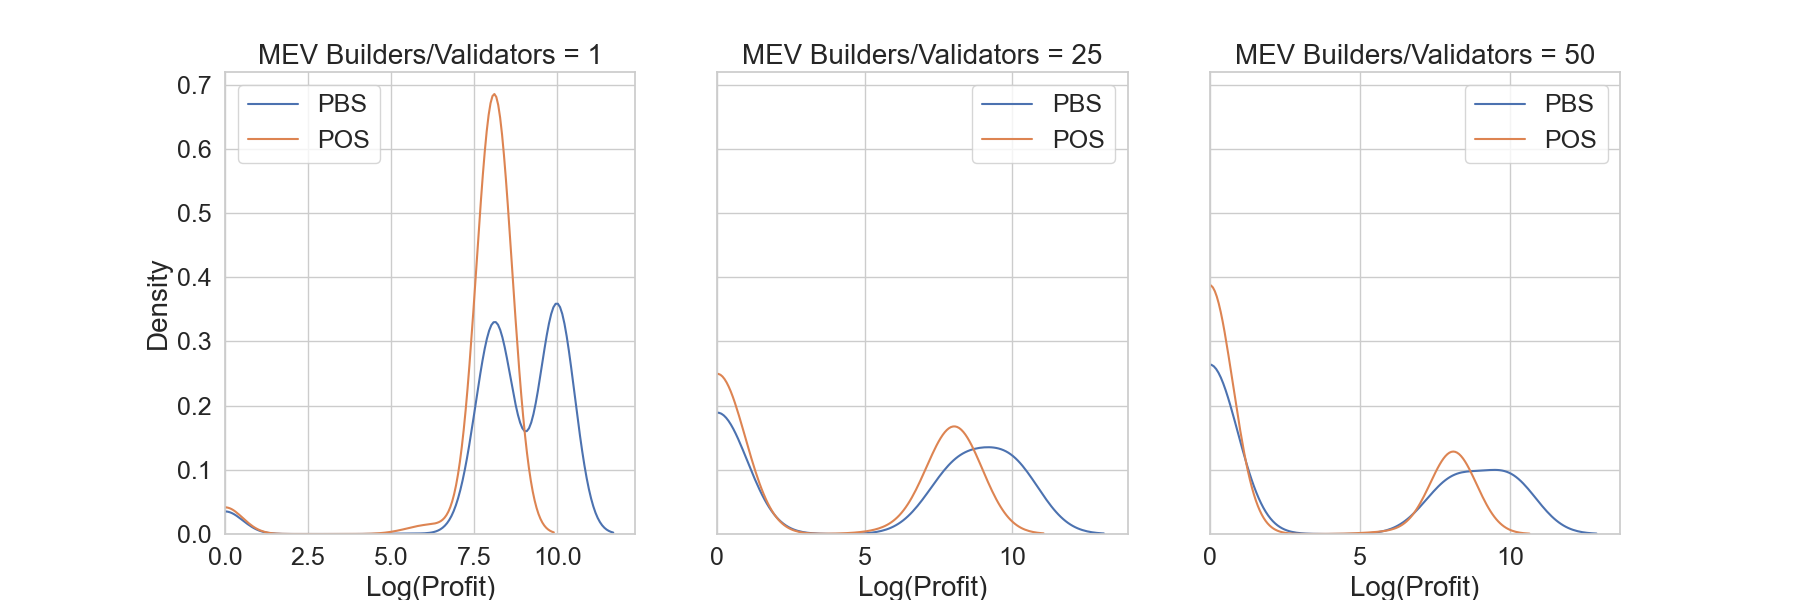
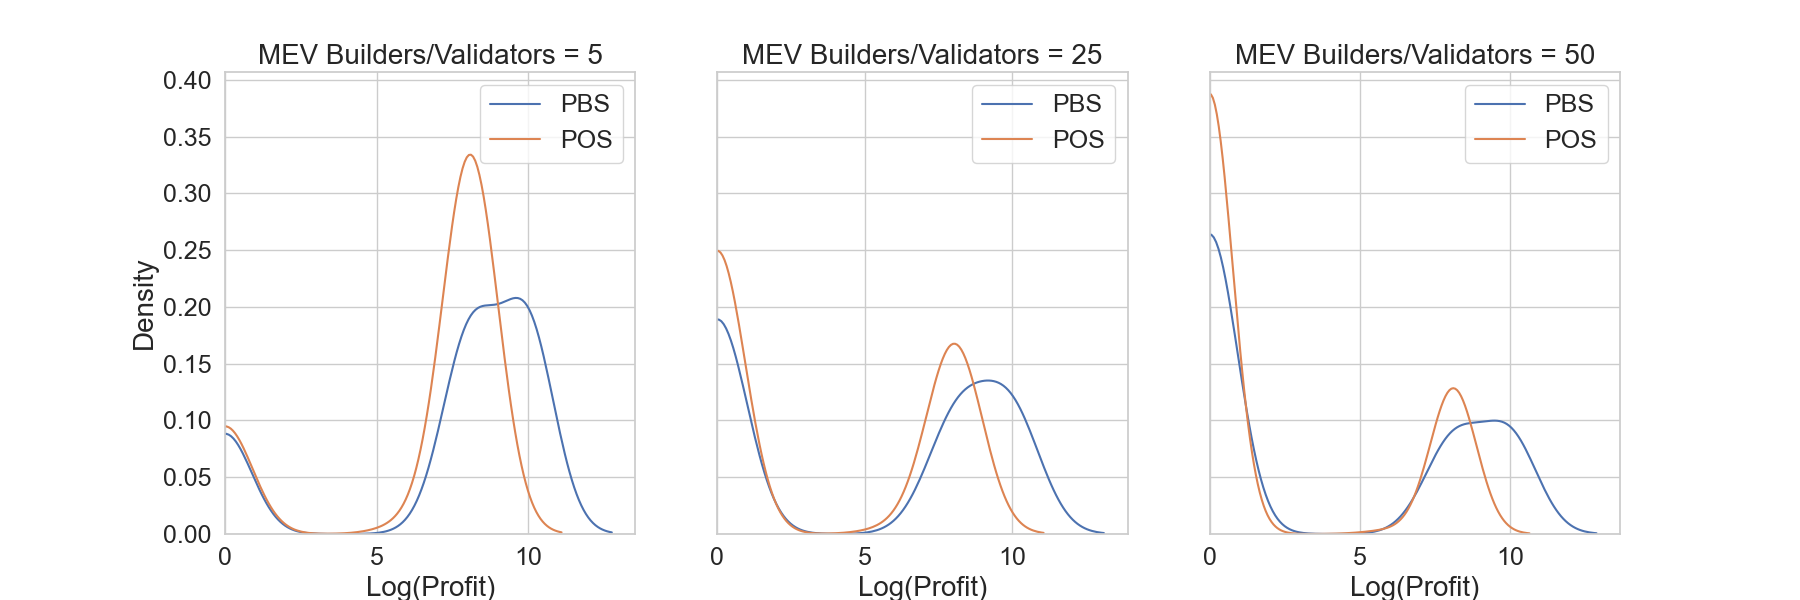
update

diff --git a/plots/new/100_run_plot.py b/plots/new/100_run_plot.py
@@ -145,6 +145,6 @@ def plot_profit_distribution(data_dir, mev_counts_to_plot):
 if __name__ == "__main__":
     data_dir = 'data/100_runs'
     mev_counts = list(range(1, 51))
-    mev_counts_to_plot = [1, 25, 50]  # Example values to plot
+    mev_counts_to_plot = [5, 25, 50]  # Example values to plot
     # plot_gini_with_confidence(data_dir, mev_counts)
     plot_profit_distribution(data_dir, mev_counts_to_plot)
